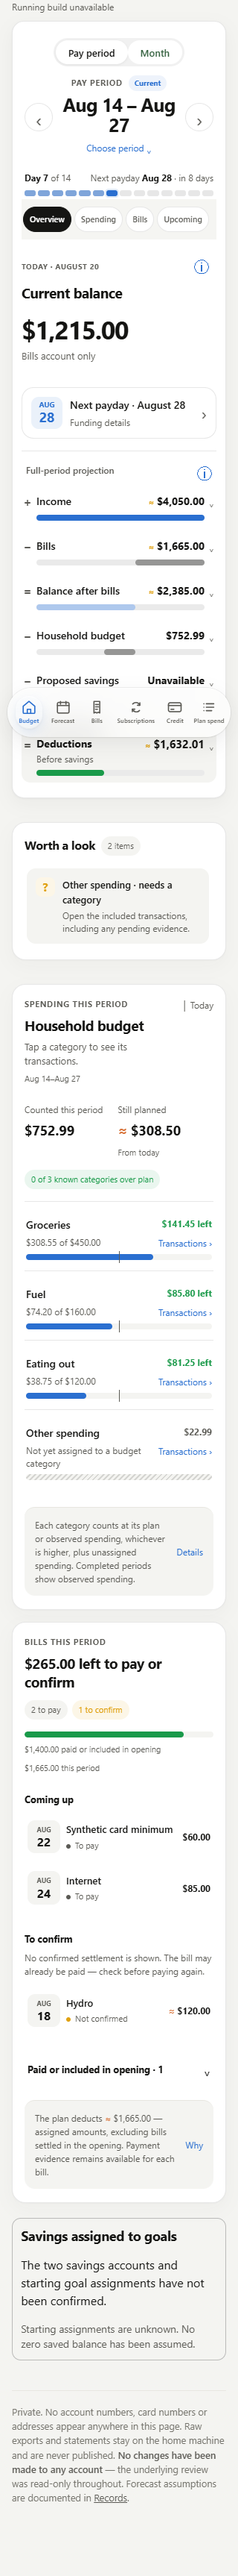
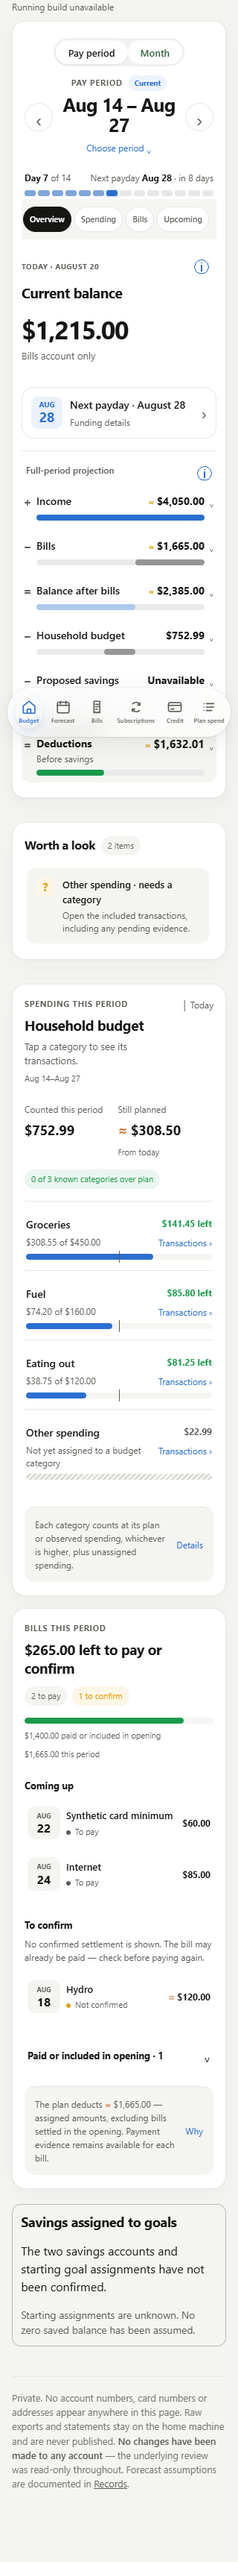
fix: preserve historical Budget evidence uncertainty

diff --git a/test/test-budget-surface.js b/test/test-budget-surface.js
@@ -270,12 +270,13 @@ const paidHistory = hydroPage.rerender(`
   Object.assign(__ctx.advice.payPeriodViews.find(item => item.start === '2026-07-31').bills.find(item => item.id === 'hydro'), {status:'PAID',settlement:'represented',remaining:0});
   Object.assign(__ctx.advice.payPeriodViews.find(item => item.start === '2026-07-31'), {paidBills:120, remainingBills:0});`);
 const paidBills = browseCard(paidHistory, 'bills');
-ok(/data-budget-bills-remaining-scope="actionable"/.test(paidBills)
-  && /data-budget-browse-bills-remaining[\s\S]*?0\.00/.test(paidBills)
-  && /left to pay or confirm/.test(paidBills)
+ok(/data-budget-bills-remaining-scope="historical-settlement"/.test(paidBills)
+  && /Completed-period bills/.test(paidBills)
+  && !/data-budget-browse-bills-remaining|left to pay or confirm/.test(paidBills)
+  && /\$120\.00 paid or included in opening/.test(paidBills)
   && /budget-browse-paid[\s\S]*?data-budget-bill-open="hydro"/.test(paidBills)
   && !/To confirm[\s\S]*?data-budget-bill-open="hydro"/.test(paidBills),
-  'paid historical Hydro can show the published $0 remaining without a false confirm group');
+  'paid historical Hydro keeps its published paid amount and no false confirm group; its header stays historical');
 const unknownHistory = hydroPage.rerender(`
   Object.assign(__ctx.advice.payPeriodViews.find(item => item.start === '2026-07-31').bills.find(item => item.id === 'hydro'), {status:null,settlement:null,remaining:120});
   Object.assign(__ctx.advice.payPeriodViews.find(item => item.start === '2026-07-31'), {paidBills:0, remainingBills:0});`);
@@ -360,6 +361,88 @@ ok(/data-sign="negative"/.test(summaryHtml(zeroIncomeHtml, '07')) && /2,417\.99/
   'zero-income deficit independently reconciles 0 - 1,665 - 752.99 = -2,417.99');
 
 console.log('\n=== published amount trust is independent of chart scaling ===');
+console.log('\n=== real historical Forecast publications never become an actionable all-clear ===');
+const browseSection = (out, kind) => out.split(`data-budget-browse="${kind}"`)[1]?.split('</section>')[0] || '';
+for (const coverage of ['missing', 'partial', 'truncated', 'full', 'posted-only']) {
+  for (const settlement of ['unverified', 'paid']) {
+    const historyPage = page(); historyPage.render(fx.historical(coverage, settlement));
+    const historicalPeriod = historyPage.context.__ctx.advice.payPeriodViews.find(row => row.start === '2026-07-31');
+    ok(historicalPeriod?.lookback === true && historicalPeriod.timelineRole === 'past',
+      `${coverage}/${settlement}: actual Forecast publishes the completed Jul 31-Aug 13 identity`);
+    if (!historicalPeriod) continue;
+    const out = historyPage.rerender(`__ctx.planPayPeriodId = ${JSON.stringify(historicalPeriod.id)}`);
+    const spending = browseSection(out, 'spending'), bills = browseSection(out, 'bills');
+    const ready = coverage === 'full' || coverage === 'posted-only';
+    const grocery = historicalPeriod.householdBudget.find(row => row.id === 'groceries');
+    const fuel = historicalPeriod.householdBudget.find(row => row.id === 'fuel');
+    ok(ready ? grocery.spent === 47.25 && fuel.spent === 19.50 && historicalPeriod.budgetHold === 66.75
+      : grocery.spent === null && fuel.spent === null && historicalPeriod.budgetHold === 0,
+      `${coverage}/${settlement}: real observation coverage publishes independent $47.25 + $19.50 = $66.75, or omits unproven spending`);
+    ok(ready ? /Observed spending · completed period/.test(spending) && /\$66\.75/.test(spending)
+      : /Spending unavailable · completed period/.test(spending) && !/Observed spending · completed period|Completed periods show observed spending/.test(spending)
+        && /data-budget-browse-hold><span class="budget-browse-unknown">Unavailable/.test(spending),
+      `${coverage}/${settlement}: completed label and historical amount agree with actual coverage, without invented zero spending`);
+    const bill = historicalPeriod.bills.find(row => row.id === 'historical-service');
+    ok(bill?.status === (settlement === 'paid' ? 'PAID' : 'planned') && historicalPeriod.remainingBills === 0,
+      `${coverage}/${settlement}: Forecast historical actionable $0 is retained, with ${settlement} row identity`);
+    ok(/Completed-period bills/.test(bills) && !/left to pay or confirm|data-budget-browse-bills-remaining/.test(bills)
+      && (settlement === 'paid' ? /Paid or included in opening/.test(bills) : /To confirm[\s\S]*?Synthetic historical service/.test(bills))
+      && /Historical settlement evidence, not an amount due now/.test(bills),
+      `${coverage}/${settlement}: history is settlement evidence, never a zero due/confirmation all-clear`);
+    ok(/data-period-bill="historical-service"/.test(out) && /data-budget-category-open="groceries"/.test(out),
+      `${coverage}/${settlement}: native bill and transaction evidence stays reachable`);
+    const currentOut = historyPage.rerender('__ctx.planPayPeriodId = null');
+    const currentRemaining = settlement === 'paid' ? 265 : 370; // 265 current + 105 unresolved earlier bill
+    ok(browseSection(currentOut, 'bills').includes(`${money(currentRemaining)}</span> left to pay or confirm`)
+      && /known categories over plan/.test(browseSection(currentOut, 'spending')),
+      `${coverage}/${settlement}: current view keeps its own ${money(currentRemaining)} action and actual coverage`);
+    const future = historyPage.context.__ctx.advice.payPeriodViews.find(row => row.timelineRole === 'next');
+    const futureOut = historyPage.rerender(`__ctx.planPayPeriodId = ${JSON.stringify(future.id)}`);
+    ok(/Projected plan · spending not observed/.test(browseSection(futureOut, 'spending'))
+      && !/Observed spending · completed period|Completed-period bills/.test(futureOut),
+      `${coverage}/${settlement}: future remains projected and never borrows historical settlement or observations`);
+  }
+}
+for (const trust of ['unavailable', 'unknown', 'untrusted']) {
+  const hp = page(); hp.render(fx.historical('full'));
+  const hist = hp.context.__ctx.advice.payPeriodViews.find(row => row.start === '2026-07-31');
+  const out = hp.rerender(`__ctx.planPayPeriodId = ${JSON.stringify(hist.id)};
+    __ctx.advice.payPeriodViews.find(row => row.start === '2026-07-31').householdBudget.find(row => row.id === 'groceries').trust = ${JSON.stringify(trust)}`);
+  ok(/Incomplete spending evidence · completed period/.test(browseSection(out, 'spending'))
+    && /data-budget-browse-hold><span class="budget-browse-unknown">Unavailable/.test(out)
+    && /Spending unavailable/.test(categoryBrowse(out, 'groceries'))
+    && !/budget-category-fill|\$47\.25/.test(categoryBrowse(out, 'groceries')),
+    `${trust}: partial historical publication withholds the aggregate and affected row geometry; trusted other observations remain`);
+  ok(/\$19\.50/.test(categoryBrowse(out, 'fuel')) && /\$105\.00/.test(browseSection(out, 'bills')),
+    `${trust}: a category trust failure does not erase separate fuel or bill evidence`);
+}
+const historicalZero = page(); historicalZero.render(fx.historical('full'));
+const withheldOther = historicalZero.rerender(`__ctx.planPayPeriodId = __ctx.advice.payPeriodViews.find(row => row.start === '2026-07-31').id;
+  __ctx.advice.payPeriodViews.find(row => row.start === '2026-07-31').householdBudget.push({ id:'other-spending',
+    label:'Synthetic unknown historical other spending', otherSpending:true, needsConfirmation:true, spent:null, planned:null })`);
+ok(/data-budget-spending-evidence="partial"/.test(browseSection(withheldOther, 'spending'))
+  && /data-budget-browse-hold><span class="budget-browse-unknown">Unavailable/.test(withheldOther)
+  && /Unavailable/.test(categoryBrowse(withheldOther, 'other-spending')),
+  'missing Other spending evidence cannot be omitted to promote the full historical hold to observed');
+historicalZero.render(fx.historical('full'));
+const allZero = historicalZero.rerender(`__ctx.planPayPeriodId = __ctx.advice.payPeriodViews.find(row => row.start === '2026-07-31').id;
+  const histZero = __ctx.advice.payPeriodViews.find(row => row.start === '2026-07-31');
+  histZero.householdBudget.forEach(row => row.spent = 0); histZero.budgetHold = 0`);
+ok(/Observed spending · completed period/.test(browseSection(allZero, 'spending'))
+  && /data-budget-browse-hold>\$0\.00/.test(allZero),
+  'published known zero observations stay known; missing evidence never fills them');
+for (const role of ['current', 'next']) for (const trust of ['unknown', 'unavailable', 'untrusted']) {
+  const tp = page(); tp.render(fx.served());
+  const period = tp.context.__ctx.advice.payPeriodViews.find(row => row.timelineRole === role);
+  const out = tp.rerender(`__ctx.planPayPeriodId = ${JSON.stringify(period.id)};
+    __ctx.advice.payPeriodViews.find(row => row.timelineRole === ${JSON.stringify(role)}).householdBudget.find(row => row.id === 'groceries').trust = ${JSON.stringify(trust)}`);
+  const card = categoryBrowse(out, 'groceries');
+  ok(/Unavailable/.test(card) && !/budget-category-fill|308\.55|141\.45 left/.test(card),
+    `${role}/${trust}: explicit category trust failure keeps amounts and ratio geometry unavailable on every active scope`);
+  ok(role === 'current' ? /0 of 2 known categories over plan/.test(browseSection(out, 'spending'))
+    : /Projected plan · spending not observed/.test(browseSection(out, 'spending')),
+    `${role}/${trust}: truthful known-category count or projected label remains independent of history`);
+}
 // Fault injection at the Forecast publication boundary, through the active
 // composer. The observation/Forecast regressions above reconcile real figures;
 // this matrix checks that a missing ratio denominator cannot change their trust.

diff --git a/public/plan.js b/public/plan.js
@@ -5709,10 +5709,10 @@ function budgetBrowseMoney(value, trust) {
 }
 
 function budgetCategoryPresentation(row) {
-  const spentKnown = budgetBrowseKnown(row.spent);
+  const spentKnown = budgetBrowseKnown(row.spent) && !['unavailable', 'unknown', 'untrusted'].includes(row.trust);
   const other = row.otherSpending === true || row.needsConfirmation === true;
   const trust = row.confidence === 'estimated' || row.trust === 'estimated' ? 'estimated' : null;
-  if (other) return { kind: 'unassigned', label: budgetBrowseMoney(row.spent), spentKnown, other, trust };
+  if (other) return { kind: 'unassigned', label: budgetBrowseMoney(row.spent, row.trust), spentKnown, other, trust };
   if (!spentKnown) return { kind: 'unknown', label: row.projected ? 'Not observed' : 'Spending unavailable', spentKnown, other, trust };
   if (budgetBrowseKnown(row.overspend) && row.overspend > 0)
     return { kind: 'over', label: `${budgetBrowseMoney(row.overspend, trust)} over`, spentKnown, other, trust };
@@ -5727,9 +5727,11 @@ function budgetBrowseHistorical(period) {
 }
 
 function budgetHistoricalSpendingEvidence(period) {
+  // Published historical holds omit unproven observations. Evidence counts
+  // include Other spending; an incomplete hold is never a zero-spend claim.
   const planned = (period.householdBudget || []).filter(row =>
-    row && !row.informational && !row.otherSpending && !row.needsConfirmation);
-  const known = planned.filter(row => budgetBrowseKnown(row.spent)).length;
+    row && !row.informational);
+  const known = planned.filter(row => budgetCategoryPresentation(row).spentKnown).length;
   if (!planned.length || known === 0) return 'unavailable';
   if (known < planned.length) return 'partial';
   return 'observed';
@@ -5764,7 +5766,7 @@ function budgetCategoryBarHtml(row, state, pace) {
 function budgetSpendingSectionHtml(period, ctx) {
   const rows = (period.householdBudget || []).filter(Boolean);
   const planned = rows.filter(row => !row.informational && !row.otherSpending && !row.needsConfirmation);
-  const classified = planned.filter(row => budgetBrowseKnown(row.spent) && budgetBrowseKnown(row.remaining));
+  const classified = planned.filter(row => budgetCategoryPresentation(row).spentKnown && budgetBrowseKnown(row.remaining));
   const over = classified.filter(row => budgetBrowseKnown(row.overspend) && row.overspend > 0);
   const model = budgetWindowModel(ctx), cycle = period.spendingCycle;
   const datesKnown = cycle && isValidIsoCalendarDate(cycle.start) && isValidIsoCalendarDate(cycle.end)
@@ -5785,7 +5787,7 @@ function budgetSpendingSectionHtml(period, ctx) {
     if (row.informational) return `<p class="budget-browse-note">${budgetBrowseEscape(row.label)} · ${budgetBrowseEscape(row.note || 'Included in Bills')}</p>`;
     const state = budgetCategoryPresentation(row);
     const meta = state.other ? budgetBrowseEscape(row.note || 'Not yet assigned to a category')
-      : `${budgetBrowseMoney(row.spent)} of ${budgetBrowseMoney(row.planned, state.trust)}`;
+      : `${budgetBrowseMoney(row.spent, row.trust)} of ${budgetBrowseMoney(row.planned, state.trust)}`;
     return `<button type="button" class="budget-category-row is-${state.kind}" data-budget-category-open="${budgetBrowseEscape(row.id)}" data-budget-browse-origin="spending" aria-haspopup="dialog">
       <span class="budget-category-name">${budgetBrowseEscape(row.label || 'Category')}</span><span class="budget-category-status">${state.label}</span>
       <span class="budget-category-meta">${meta}</span><span class="budget-category-link">Transactions <span aria-hidden="true">›</span></span>
@@ -5795,10 +5797,10 @@ function budgetSpendingSectionHtml(period, ctx) {
   return `<section class="budget-browse-card budget-browse-spending" data-budget-browse="spending" data-budget-spending-evidence="${historyEvidence}" aria-labelledby="budget-spending-heading">
     <header><div><p class="budget-browse-eyebrow">Spending this period</p><h2 id="budget-spending-heading" tabindex="-1">Household budget</h2><p class="budget-browse-sub">Tap a category to see its transactions.</p></div>${pace != null ? '<span class="budget-pace-key">│ Today</span>' : ''}</header>
     ${householdBudgetCycleText(period) ? `<p class="budget-browse-cycle">${budgetBrowseEscape(householdBudgetCycleText(period))}</p>` : ''}
-    <div class="budget-browse-stats"><div><span>Counted this period</span><strong data-budget-browse-hold>${budgetBrowseMoney(observedHold ? period.budgetHold : null, observedHold ? period.budgetHoldTrust : 'unavailable')}</strong></div>
+    <div class="budget-browse-stats"><div><span>${historical ? 'Observed spending this period' : 'Counted this period'}</span><strong data-budget-browse-hold>${budgetBrowseMoney(observedHold ? period.budgetHold : null, observedHold ? period.budgetHoldTrust : 'unavailable')}</strong></div>
       ${period.timelineRole === 'current' ? `<div><span>Still planned</span><strong data-budget-browse-remaining>${budgetBrowseMoney(remainingKnown ? funding.remainingHousehold : null, remainingKnown ? funding.trust : null)}</strong><small>From today</small></div>` : ''}</div>
     <div class="budget-browse-counts">${count}</div><div class="budget-category-list">${cards || '<p class="budget-browse-note">Category data unavailable.</p>'}</div>
-    <footer><p>Each category counts at its plan or observed spending, whichever is higher, plus unassigned spending. ${observedHold ? 'Completed periods show observed spending.' : 'Missing or incomplete history is not treated as observed spending.'}</p><button type="button" data-budget-browse-evidence="06">Details</button></footer>
+    <footer><p>${historical ? observedHold ? 'Completed periods show observed spending, not a spending reserve.' : 'Missing or incomplete history is not treated as observed spending. Missing amounts are unavailable, not zero; open Details for the published evidence.' : 'Each category counts at its plan or observed spending, whichever is higher, plus unassigned spending.'}</p><button type="button" data-budget-browse-evidence="06">Details</button></footer>
   </section>`;
 }
 
@@ -5831,13 +5833,14 @@ function budgetBillsSectionHtml(period, ctx) {
   const ratioKnown = budgetBrowseKnown(period.totalBillsThisPeriod) && period.totalBillsThisPeriod > 0
     && budgetBrowseKnown(period.paidBills) && period.paidBills >= 0 && period.paidBills <= period.totalBillsThisPeriod;
   const zeroKnown = period.totalBillsThisPeriod === 0 && period.paidBills === 0;
-  const withholdActionableRemaining = budgetBrowseHistorical(period)
+  const historical = budgetBrowseHistorical(period);
+  const withholdActionableRemaining = historical
     && (groups.check.length > 0 || groups.unknown.length > 0);
-  const remainingHeading = withholdActionableRemaining
-    ? 'Settlement not fully confirmed'
+  const remainingHeading = historical
+    ? 'Completed-period bills'
     : `<span data-budget-browse-bills-remaining>${budgetBrowseMoney(period.remainingBills)}</span> left to pay or confirm`;
-  return `<section class="budget-browse-card budget-browse-bills" data-budget-browse="bills" data-budget-bills-remaining-scope="${withholdActionableRemaining ? 'historical-unconfirmed' : 'actionable'}" aria-labelledby="budget-bills-heading">
-    <header><div><p class="budget-browse-eyebrow">Bills this period${period.projected ? ' · projected' : ''}</p><h2 id="budget-bills-heading" tabindex="-1">${remainingHeading}</h2></div></header>
+  return `<section class="budget-browse-card budget-browse-bills" data-budget-browse="bills" data-budget-bills-remaining-scope="${historical ? withholdActionableRemaining ? 'historical-unconfirmed' : 'historical-settlement' : 'actionable'}" aria-labelledby="budget-bills-heading">
+    <header><div><p class="budget-browse-eyebrow">Bills this period${period.projected ? ' · projected' : historical ? ' · completed' : ''}</p><h2 id="budget-bills-heading" tabindex="-1">${remainingHeading}</h2>${historical ? `<p class="budget-browse-sub">${withholdActionableRemaining ? 'Settlement not fully confirmed. ' : ''}Historical settlement evidence, not an amount due now. Unconfirmed entries may already be paid.</p>` : ''}</div></header>
     <div class="budget-browse-counts">${[['due', 'to pay'], ['pending', 'pending'], ['check', 'to confirm'], ['unknown', 'unavailable']].filter(([key]) => groups[key].length).map(([key, label]) => `<span class="budget-browse-pill is-${key}">${groups[key].length} ${label}</span>`).join('')}</div>
     <div class="budget-bills-progress${ratioKnown ? '' : zeroKnown ? ' is-no-scale' : ' is-hatched'}" aria-hidden="true">${ratioKnown ? `<span style="width:${period.paidBills / period.totalBillsThisPeriod * 100}%"></span>` : ''}</div>
     <div class="budget-bills-figures"><span>${budgetBrowseMoney(period.paidBills)} paid or included in opening</span><span>${budgetBrowseMoney(period.totalBillsThisPeriod)} this period</span></div>

diff --git a/test/browser-budget-v3-period.js b/test/browser-budget-v3-period.js
@@ -185,7 +185,11 @@ async function geometry(page) {
       ]) {
         const trigger = page.locator(selector);
         await trigger.focus(); await page.keyboard.press('Enter');
-        await page.locator(sourceSelector).evaluate(node => { window.__beforeRerender = node; });
+        // Establish the visible, original evidence sheet before forcing a
+        // refresh; an outside hidden source is not proof that Enter opened it.
+        await page.locator('[data-budget-detail-sheet]').waitFor({state:'visible'});
+        assert.equal(await page.locator('[data-budget-detail-sheet]').evaluate(el=>el.open), true);
+        await page.locator(`[data-budget-detail-body] > ${sourceSelector}`).evaluate(node => { window.__beforeRerender = node; });
         await page.evaluate(() => App.rerender());
         await page.waitForFunction(() => document.querySelector('[data-budget-detail-sheet]')?.open);
         assert.equal(await page.locator(`[data-budget-detail-body] > ${sourceSelector}`).evaluate(node => node !== window.__beforeRerender && node.isConnected), true,
@@ -386,6 +390,56 @@ async function geometry(page) {
         }
         await screenshot({ path: path.join(screenshots, `${name}-${width}.png`), fullPage: true });
         await page.locator('[data-calendar-waterfall]').screenshot({ path: path.join(screenshots, `${name}-period-${width}.png`), style: periodCropStyle });
+      }
+      // Both #488 review defects, through actual Forecast historical paths.
+      // Null spent from incomplete coverage is not observed history; sealed
+      // planned bills with historical remaining $0 are not an actionable clear.
+      for (const [coverage, settlement] of [['missing','unverified'], ['partial','unverified'],
+        ['truncated','unverified'], ['full','unverified'], ['full','paid'], ['posted-only','unverified']]) {
+        data = fx.historical(coverage, settlement); await boot();
+        await page.locator('[data-budget-window-step="-1"]').click();
+        assert.match(await page.locator('[data-budget-window-range]').innerText(), /Jul 31.*Aug 13/);
+        const spending = page.locator('[data-budget-browse="spending"]');
+        const bills = page.locator('[data-budget-browse="bills"]');
+        const observed = ['full', 'posted-only'].includes(coverage);
+        assert.match(await spending.locator('.budget-browse-counts').innerText(), observed
+          ? /Observed spending.*completed period/ : /Spending unavailable.*completed period/);
+        assert.match(await spending.locator('[data-budget-browse-hold]').innerText(), observed ? /66\.75/ : /Unavailable/);
+        const groceries = spending.locator('[data-budget-category-open="groceries"]');
+        assert.match(await groceries.innerText(), observed ? /47\.25/ : /Spending unavailable/);
+        assert.equal(await groceries.locator('.budget-category-fill').count(), observed ? 1 : 0);
+        assert.equal(await bills.locator('[data-budget-browse-bills-remaining]').count(), 0);
+        assert.equal((await bills.locator('h2').innerText()), 'Completed-period bills');
+        assert.match(await bills.innerText(), /Historical settlement evidence, not an amount due now/);
+        if (settlement === 'unverified') assert.match(await bills.innerText(), /To confirm[\s\S]*Synthetic historical service/);
+        else await bills.locator('.budget-browse-paid > summary').click();
+        assert.equal((await bills.innerText()).includes('left to pay or confirm'), false);
+        await geometry(page);
+        if (['missing', 'full'].includes(coverage)) await screenshot({
+          path:path.join(screenshots, `history-${coverage}-${settlement}-${width}.png`), fullPage:true });
+        if (coverage === 'partial' && width === 320) await screenshot({path:path.join(screenshots,'history-partial-320.png'),fullPage:true});
+        await groceries.focus(); await page.keyboard.press('Enter');
+        assert.equal(await page.locator('[data-budget-detail-sheet]').evaluate(el=>el.open), true);
+        if (observed) assert.match(await page.locator('[data-budget-detail-body]').innerText(), /Synthetic historical grocer[\s\S]*47\.25/);
+        await page.keyboard.press('Escape');
+        assert.equal(await groceries.evaluate(el=>el===document.activeElement), true);
+        if (settlement === 'paid' && !await bills.locator('.budget-browse-paid').evaluate(el=>el.open)) {
+          await bills.locator('.budget-browse-paid > summary').focus();
+          await page.keyboard.press('Enter');
+          assert.equal(await bills.locator('.budget-browse-paid').evaluate(el=>el.open), true);
+        }
+        const bill = bills.locator('[data-budget-bill-open="historical-service"]');
+        await bill.focus();
+        assert.equal(await bill.evaluate(el=>el===document.activeElement), true);
+        await page.keyboard.press('Enter');
+        assert.equal(await page.locator('[data-budget-detail-sheet]').evaluate(el=>el.open), true);
+        assert.match(await page.locator('[data-budget-detail-body]').innerText(), /Synthetic historical service[\s\S]*105\.00/);
+        await page.keyboard.press('Escape');
+        assert.equal(await bill.evaluate(el=>el===document.activeElement), true);
+        await page.locator('[data-budget-window-step="1"]').click();
+        assert.match(await page.locator('[data-budget-browse-bills-remaining]').innerText(), settlement === 'paid' ? /265\.00/ : /370\.00/);
+        await page.locator('[data-budget-window-step="1"]').click();
+        assert.match(await page.locator('[data-budget-browse="spending"] .budget-browse-counts').innerText(), /Projected plan.*spending not observed/);
       }
       // Configured pools with unknown assignments must retain the withholding reason.
       data = fx.served({ withheldSavings: true }); await boot(); await geometry(page);

diff --git a/test/fixtures/budget-surface-data.js b/test/fixtures/budget-surface-data.js
@@ -189,4 +189,33 @@ function served(opts = {}) {
   return overlay.data;
 }
 
-module.exports = { AS_OF, OPENING, canonical, payload, map, identity, served };
+// Completed Jul 31-Aug 13 period: independently invented groceries $47.25,
+// fuel $19.50 and a $105 bill on Aug 7. Current Aug 14-27 inputs stay unchanged.
+// Coverage variants are observation evidence, not renderer fault injections.
+function historical(coverage = 'missing', settlement = 'unverified') {
+  const data = served();
+  data.plan.bills.push({ id: 'historical-service', label: 'Synthetic historical service',
+    frequency: 'once', date: '2026-08-07', amount: 105, confidence: 'confirmed', payingAccount: 'chequing-a' });
+  const packet = data.liveOverlay.currentPeriodActuals;
+  packet.transactions.push(
+    { id: 'history-grocery', date: '2026-08-04', amount: 47.25, pending: false,
+      categoryLabel: 'Groceries', accountRole: 'household-cash', atlasAccountId: 'chequing-b',
+      displayedPayee: 'Synthetic historical grocer' },
+    { id: 'history-fuel', date: '2026-08-05', amount: 19.50, pending: false,
+      categoryLabel: 'Gas', accountRole: 'household-cash', atlasAccountId: 'chequing-b',
+      displayedPayee: 'Synthetic historical fuel' });
+  if (coverage === 'full' || coverage === 'truncated' || coverage === 'posted-only') packet.coverageStart = '2026-07-31';
+  if (coverage === 'partial') packet.coverageStart = '2026-08-04';
+  if (coverage === 'truncated') packet.transactionCoverage = 'truncated';
+  if (coverage === 'posted-only') packet.pendingCoverage = 'unknown';
+  if (settlement === 'paid') {
+    packet.representedActuals.push({ id: 'historical-service', date: '2026-08-07', actual: 105,
+      postedOn: '2026-08-07', transactionId: 'history-service-payment' });
+    packet.transactions.push({ id: 'history-service-payment', date: '2026-08-07', amount: 105,
+      pending: false, representedBill: true, categoryLabel: 'Bills', accountRole: 'household-cash',
+      atlasAccountId: 'chequing-a', displayedPayee: 'Synthetic historical service payment' });
+  }
+  return data;
+}
+
+module.exports = { AS_OF, OPENING, canonical, payload, map, identity, served, historical };

diff --git a/docs/design/budget-v3-spending-bills/README.md b/docs/design/budget-v3-spending-bills/README.md
@@ -135,3 +135,49 @@ are recorded separately in the draft's proof.
 
 These are bounded remaining outcomes, not a claim that the approved visual
 target has been completed by this slice. #480 stays open as the reference.
+
+## Historical presentation repair
+
+Review findings [4175917633](https://github.com/tc5v5s64ym-sketch/Atlas-Financial/pull/488#discussion_r4175917633)
+and [4175917638](https://github.com/tc5v5s64ym-sketch/Atlas-Financial/pull/488#discussion_r4175917638)
+were reproduced on `2234446c186a4c04e951cfa02b0480a798376b2d` through real
+Forecast lookback publications, using additional independently invented inputs.
+No engine total or settlement state changes in the repair.
+The final consolidation builds on Cursor's remote repair
+`d7d4a0fb7dd4f14476963513d0c942044b27d581`, preserves its helpers and regression
+coverage, and adds real observation/settlement cases, explicit trust guards and
+historical bill scope for paid and unconfirmed history. The paid-history test
+now requires its published paid amount and paid group while rejecting an
+actionable historical headline; no payment-state assertion was relaxed.
+
+The Jul 31-Aug 13 fixture has groceries $47.25, fuel $19.50 and an Aug 7 bill
+of $105. Full and posted-only coverage publish $66.75 observed spending;
+missing, partial and truncated coverage withhold category spending. The
+historical published hold then omits unproven spending and is $0, which the
+new summary withholds rather than promoting it to zero observed spending.
+An incomplete category publication or explicit unknown trust also withholds
+the summary while preserving separately known evidence. Published known zero
+observations remain zero.
+Other spending is included when checking historical evidence completeness;
+its missing amount cannot silently promote the historical total to observed.
+Current known-category counts likewise exclude explicitly withheld observations.
+
+Forecast seals an unresolved historical bill as `planned`, with `unverified`
+settlement and $105 on its row, while the historical actionable remaining
+total excludes it and is $0. The card now says **Completed-period bills** and
+describes settlement evidence, not an amount due now. The To confirm warning,
+paid group, original BillDetail and transaction sheets remain reachable.
+Current and future views keep their own publications: the invented current
+remaining amount is $370 with the earlier $105 unresolved, or $265 when its
+payment is represented. No historical sum is substituted into either view.
+
+The active-path suite covers missing/partial/truncated/full/posted-only coverage
+crossed with paid/unverified settlement, plus publication trust failures and
+known zero observations. The browser repeats coverage and settlement cases at
+1440, 390 and 320px, exercises keyboard evidence access and restores focus.
+See `history-missing-unverified-*.png`, `history-full-unverified-*.png`,
+`history-full-paid-*.png`, and `history-partial-320.png`. Existing normal-view
+reference comparisons are regenerated on the repaired head.
+The rerender browser proof first establishes the visible original evidence
+sheet before forcing a refresh; it then requires refreshed evidence and exact
+visible focus after resizing. No timed sleep or removed assertion is used.
